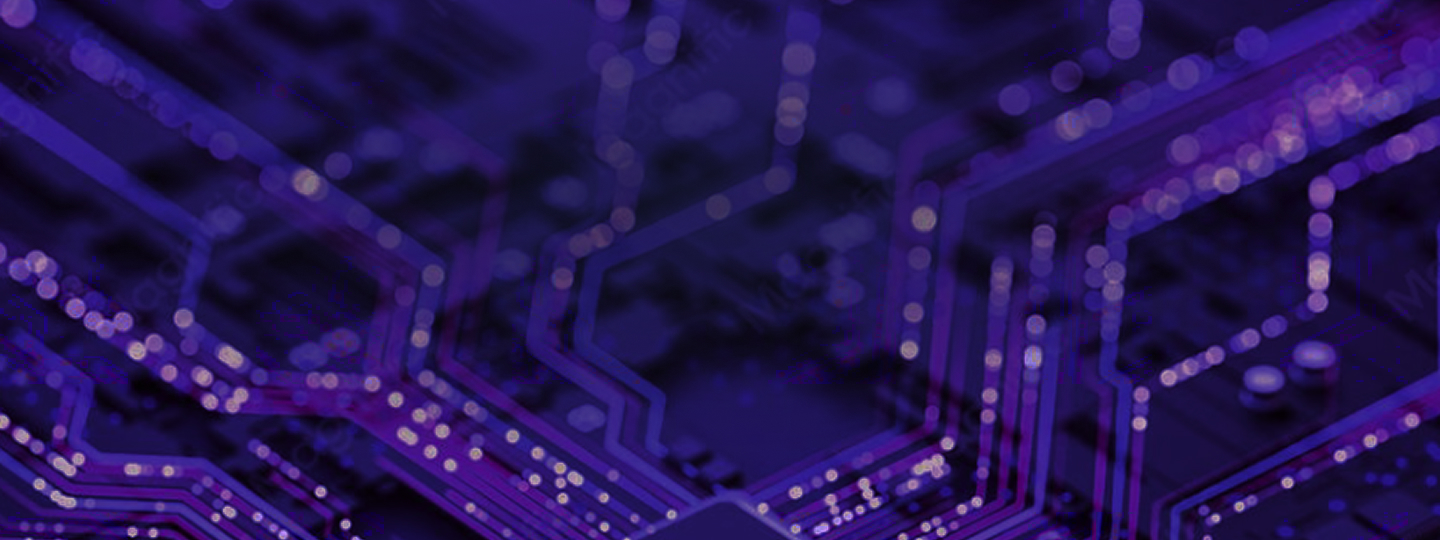
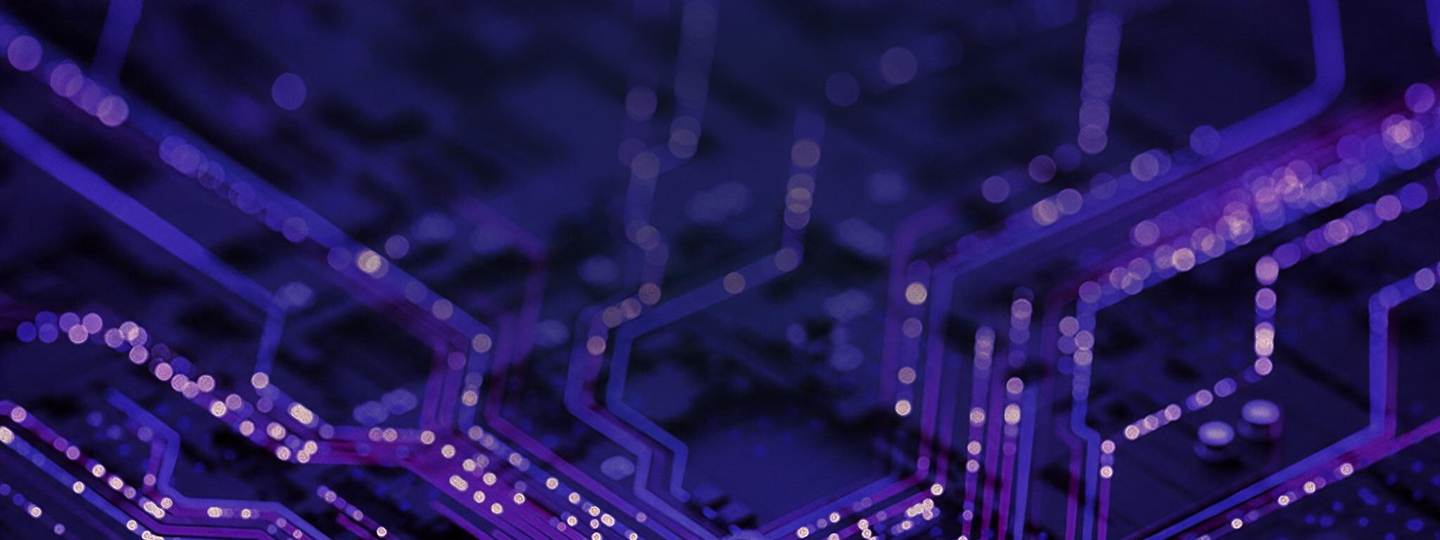
fix desktop

diff --git a/src/css/new/solution.css b/src/css/new/solution.css
@@ -14,6 +14,7 @@
   align-items: center;
   gap: 48px;
   box-sizing: border-box;
+  margin-bottom: 48px;
 }
 
 .solution-hero {
@@ -45,7 +46,7 @@
 .solution-hero__image {
   width: 100%;
   max-width: 820px;
-  aspect-ratio: 16/8;
+  aspect-ratio: 41/16;
   border-radius: var(--radius-l);
   overflow: hidden;
   background: linear-gradient(135deg, #7700ff 0%, #ff4d12 100%);
@@ -258,7 +259,7 @@
 .form-cta {
   width: 100%;
   max-width: 1440px;
-  margin: 128px 0;
+  margin: 80px 0;
   min-height: 0;
 }
 
@@ -292,10 +293,11 @@
 }
 @media (max-width: 767px) {
   .solution {
-    padding: 16px 0 64px;
+    padding: 16px 0 48px;
   }
   .solution__container {
     padding: 0 16px;
+    margin-bottom: 0;
     gap: 32px;
   }
   .solution-hero__title {
@@ -339,5 +341,5 @@
     line-height: 20px;
   }
   .solution-text { font-size: 16px; line-height: 24px; }
-  .form-cta { margin: 48px 0; }
+  .form-cta { margin: 0; }
 }

diff --git a/src/css/new/main-hero.css b/src/css/new/main-hero.css
@@ -36,7 +36,7 @@
 }
 
 .hero__content {
-  max-width: 600px;
+  max-width: 820px;
 }
 
 .hero__title {
@@ -67,7 +67,7 @@
 
 .hero__descr {
   margin: 32px 0 0;
-  max-width: 580px;
+  max-width: 570px;
   color: var(--color-platinum, #C3C0D3);
   font-family: var(--font-family-medium, 'Rostelecom Basis', 'Inter', sans-serif);
   font-size: var(--font-h4-web-size, 22px);
@@ -166,6 +166,7 @@
   .hero__descr {
     font-size: var(--font-h4-tablet-size, 20px);
     line-height: var(--font-h4-tablet-line-height, 24px);
+    max-width: 520px;
   }
 
   .hero__stats {
@@ -212,6 +213,7 @@
     font-size: var(--font-h4-mobile-size, 18px);
     line-height: var(--font-h4-mobile-line-height, 24px);
     margin-top: 24px;
+    max-width: 450px;
   }
 
   .hero__btn {

diff --git a/src/css/new/main-cta.css b/src/css/new/main-cta.css
@@ -47,9 +47,8 @@
 
 .cta__title {
   margin: 0;
-  max-width: 900px;
+  max-width: 985px;
   color: var(--color-neutral-white, #FFF);
-  text-align: center;
   font-family: var(--font-family-medium, 'Rostelecom Basis', 'Inter', sans-serif);
   font-size: 36px;
   font-style: normal;
@@ -98,6 +97,7 @@
   .cta__title {
     font-size: 28px;
     line-height: 36px;
+    max-width: 600px;
   }
 }
 
